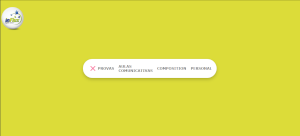
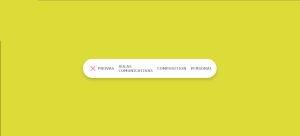
more changes

Changed region(s): [[0.0, 0.0, 0.09, 0.2941]]

diff --git a/index.html b/index.html
@@ -21,7 +21,7 @@
       <section class="container">
         <div class="sobre_mim">
           <div class="conteudo_sobremim">
-            <img class="section_exception" id="logo_index" src="./imagens/aSF_2.png" alt="logo" style="padding-right: 20px; width: 200px;">
+            <img class="section_exception" id="logo_index" src="./imagens/aSF_4.png" alt="logo" style="padding-right: 20px; width: 200px;">
           </div>
           <div class="conteudo_sobremim">
             <p class="descricao_sobre">
@@ -123,10 +123,8 @@
             </div>
             <div class="container__projetos__item descricao">
               <p>
-                Código em Python para ajudar na correção das provas
-                dos meus alunos de inglês. É um código simples para calcular a
-                nota de acordo com o número de erros que o aluno cometeu em cada
-                parte da prova junto com a nota da redação. Coloco aqui por ser
+                Código em Python para ajudar na correção de provas, calculando as notas
+                dos meus alunos de inglês. Coloco aqui por ser
                 um dos meus primeiros códigos e por usar até hoje.
               </p>
             </div>

diff --git a/paginas/projetos.html b/paginas/projetos.html
@@ -9,7 +9,7 @@
 <body>
     <header>
         <a class="titulo_header2" href="../index.html">
-          <img src="../imagens/aSF_2.png" alt="logo" style="width: 70px;">
+          <img src="../imagens/aSF_4.png" alt="logo" style="width: 70px;">
         </a>
         <div class="menu_header">
             <a href="./sobreMim.html">Sobre mim</a>
@@ -20,10 +20,7 @@
 
       <main>
           <h1 id="pagina_projetos_title">Meus Projetos</h1>
-          <div class="pagina_projetos_p">
-            <p>Alguns dos meus projetos em React Native, Java, Python e JavaScript</p>
-          </div>
-          <p style="color: var(--color0); margin-bottom: 5px; margin-left: 20px; margin-right: 20px;">* Você pode acessar o repositório do Github clicando em cada imagem.</p>
+          <p id="mensagem_github" style="color: var(--color0); margin-bottom: 10px; margin-left: 20px; margin-right: 20px;">* Você pode acessar o repositório do Github clicando em cada uma das imagens.</p>
           <section>
             <div class="projetos">
               <!--Correção de Provas - React Native-->

diff --git a/style.css b/style.css
@@ -312,6 +312,7 @@ footer {
 
     .descricao_sobre {
         font-size: 1em;
+        text-align: center;
     }
 
     .section_exception {
@@ -323,7 +324,7 @@ footer {
     }
 
     .conteudo_sobremim {
-        width: 90%;
+        width: 100%;
     }
 
     .descricao_sobre img{
@@ -385,10 +386,23 @@ footer {
         margin-right: 20px;
         font-size: 1em;
     }
+
+    #pagina_projetos_title {
+        font-size: 1.5em;
+    }
+
+    #mensagem_github {
+        font-size: 0.8em;
+    }
+
     #musicas_p {
         margin-left: 20px;
         margin-right: 20px;
-        font-size: 1em;
+        font-size: 0.9em;
+    }
+
+    .musicas_main_title {
+        font-size: 1.5em;
     }
 
     footer {

diff --git a/paginas/sobreMim.html b/paginas/sobreMim.html
@@ -9,7 +9,7 @@
 <body>
     <header>
         <a class="titulo_header2" href="../index.html">
-            <img src="../imagens/aSF_2.png" alt="logo" style="width: 70px;">
+            <img src="../imagens/aSF_4.png" alt="logo" style="width: 70px;">
         </a>
         <div class="menu_header">
             <a href="./sobreMim.html">Sobre mim</a>

diff --git a/paginas/musicas.html b/paginas/musicas.html
@@ -9,7 +9,7 @@
 <body>
     <header>
         <a class="titulo_header2" href="../index.html">
-          <img src="../imagens/aSF_2.png" alt="logo" style="width: 70px;">
+          <img src="../imagens/aSF_4.png" alt="logo" style="width: 70px;">
         </a>
         <div class="menu_header">
             <a href="./sobreMim.html">Sobre mim</a>
